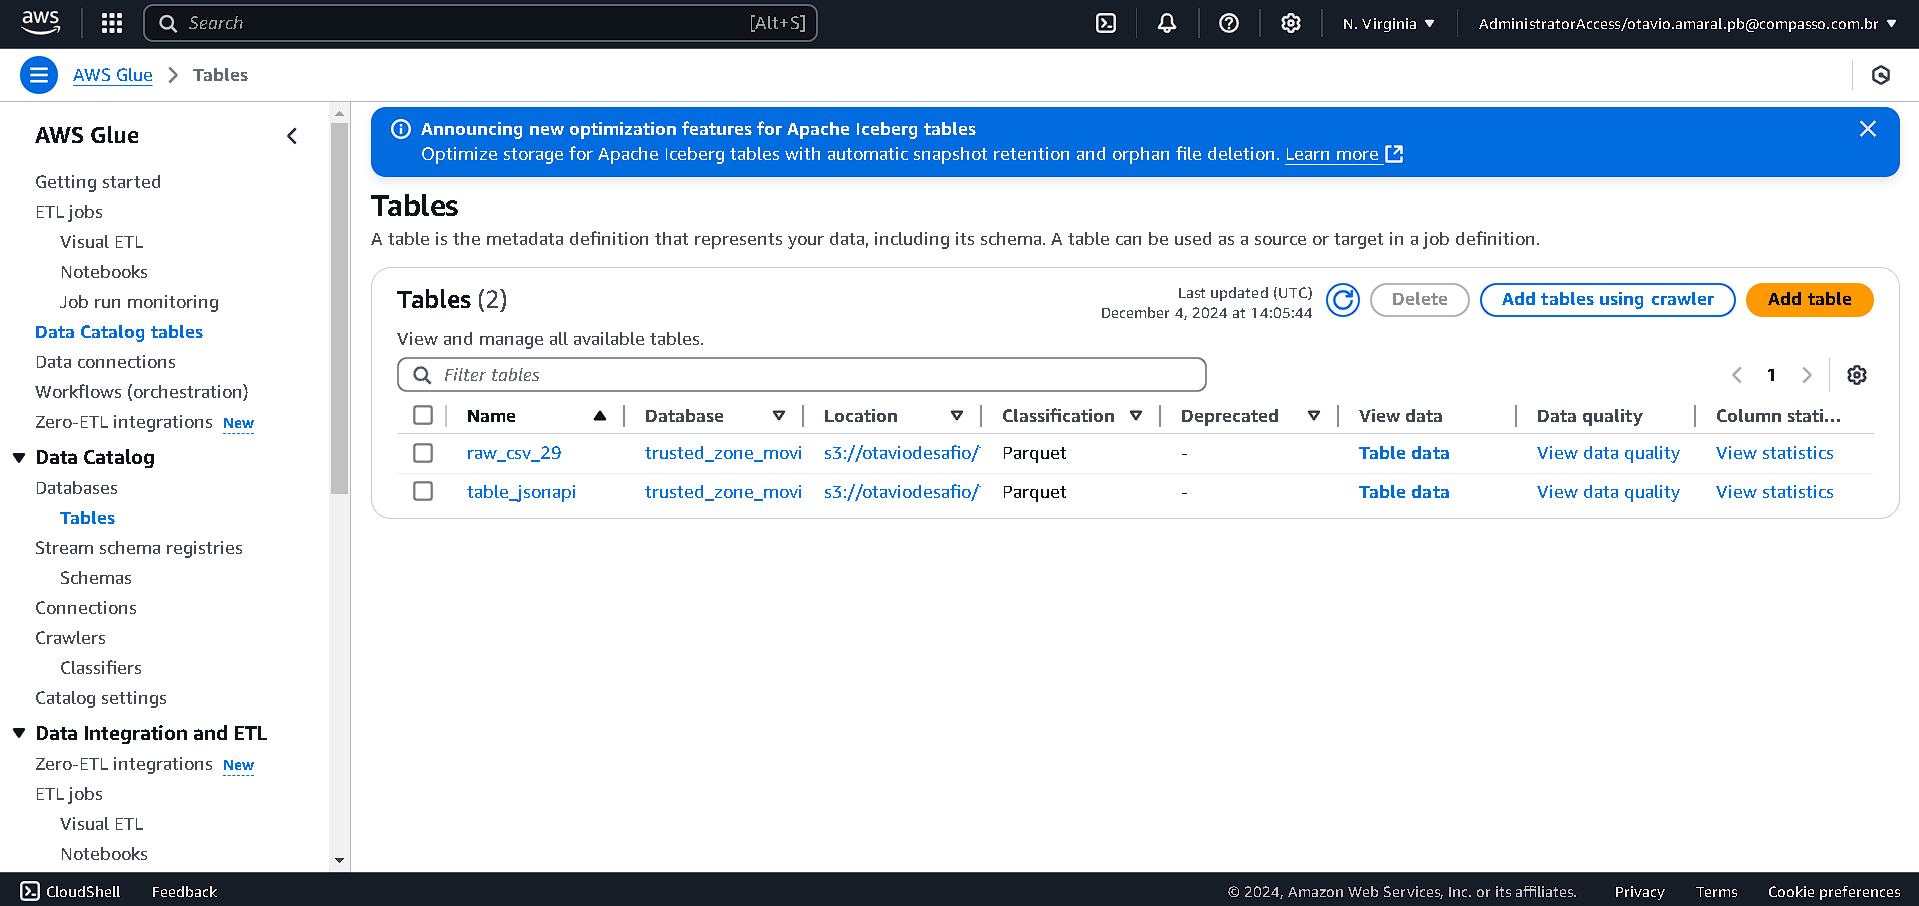
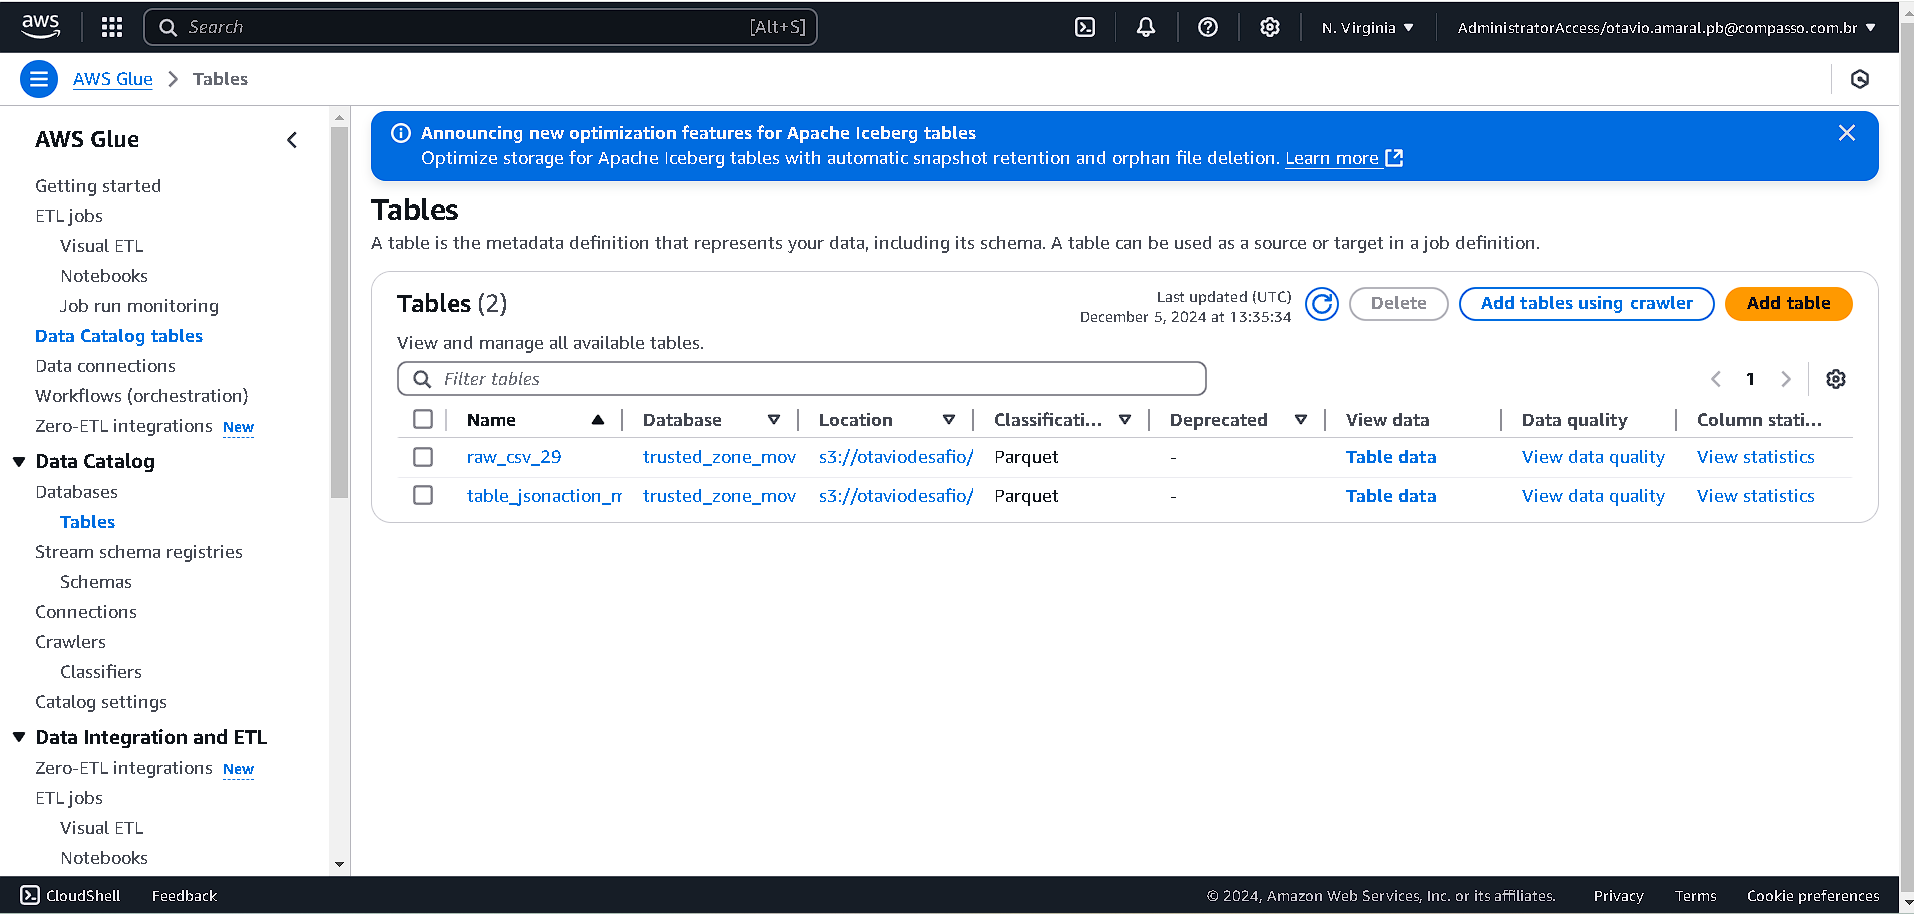
correçao do desafio
correçao do desafio particionamento pro data json, eu estava particionando pelas datas contidas dentro do arquivo, mas corrigi agora para particionar com base na data de execuçao do arquivo

diff --git a/SPRINT8/desafio/glue_json_to_parquet.py b/SPRINT8/desafio/glue_json_to_parquet.py
@@ -1,4 +1,5 @@
 import sys
+from datetime import datetime
 from awsglue.transforms import *
 from awsglue.utils import getResolvedOptions
 from pyspark.context import SparkContext
@@ -12,7 +13,12 @@ glueContext = GlueContext(sc)
 spark = glueContext.spark_session
 
 RAW_JSON_PATH = "s3://otaviodesafio/Raw/TMDB/JSON/action_movies_with_runtime.json"
-TRUSTED_PARQUET_PATH = "s3://otaviodesafio/Trusted/TMDB/API/"
+
+execution_date = datetime.now()
+execution_date_str = execution_date.strftime("%Y-%m-%d")
+execution_path = execution_date.strftime("%Y/%m/%d")
+TRUSTED_PARQUET_PATH = f"s3://otaviodesafio/Trusted/TMDB/API/{execution_path}/"
+output_file_name = f"action_movies_{execution_date_str}.parquet"
 
 datasource = glueContext.create_dynamic_frame.from_options(
     format="json",
@@ -22,7 +28,12 @@ datasource = glueContext.create_dynamic_frame.from_options(
 
 df = datasource.toDF()
 
-df = df.withColumn("release_date", to_date(col("release_date"), "yyyy-MM-dd"))
+df = df.withColumn(
+    "release_date",
+    when(to_date(col("release_date"), "yyyy-MM-dd").isNotNull(), to_date(col("release_date"), "yyyy-MM-dd"))
+    .otherwise(lit(None))
+)
+
 df = df.withColumn("title", when(col("title").isNotNull(), col("title")).otherwise("Unknown"))
 df = df.withColumn("runtime", when(col("runtime").isNotNull(), col("runtime")).otherwise(0))
 df = df.withColumn("vote_count", when(col("vote_count").isNotNull(), col("vote_count")).otherwise(0))
@@ -32,8 +43,8 @@ df = df.withColumn("overview", when(col("overview").isNotNull(), col("overview")
 df = df.withColumn("original_language", when(col("original_language").isNotNull(), col("original_language")).otherwise("Unknown"))
 df = df.withColumn("production_countries", when(col("production_countries").isNotNull() & (col("production_countries") != array()), col("production_countries")).otherwise(array(lit("Unknown"))))
 df = df.withColumn("director", when(col("director").isNotNull(), col("director")).otherwise("Unknown"))
-
 df = df.filter(col("release_date").isNotNull())
+df = df.withColumn("execution_date", lit(execution_date_str))
 
 transformed_dynamic_frame = DynamicFrame.fromDF(df, glueContext, "transformed_dynamic_frame")
 
@@ -42,7 +53,12 @@ glueContext.write_dynamic_frame.from_options(
     connection_type="s3",
     connection_options={
         "path": TRUSTED_PARQUET_PATH,
-        "partitionKeys": ["release_date"],
+        "partitionKeys": ["execution_date"],
     },
     format="parquet"
 )
+
+output_file_path = f"{TRUSTED_PARQUET_PATH}{output_file_name}"
+df.write.mode("overwrite").parquet(output_file_path)
+
+ # foi acrescentada algumas mudanças nesse codigo pois a execuçao do codigo antigo estava particionando o arquivo pelas datas contidas no conteudo dele "realease_date" mas esse ja esta atualizado para data de execuçao

diff --git a/SPRINT8/desafio/README.MD b/SPRINT8/desafio/README.MD
@@ -63,7 +63,7 @@ Importante: Após a execução dos jobs, precisamos interrompê-los para evitar 
 ### Passo 4: Validação e Consultas no AWS Athena
 Após o processamento dos dados, utilize o AWS Athena para realizar algumas consultas SQL e garantir que os dados estejam bem estruturados e prontos para análise: 
 ![Consulta_Athena](athena_select_csv_parquet.png)
-![Consulta_Athena](athena_select_json_parquet.png)
+![Consulta_Athena](./query_athena_json_atualizada.png)
 4. Considerações Finais
 Custo e Desempenho: Sempre monitoro o desempenho dos jobs e o custo de execução no AWS Glue. Para evitar custos extras, eu interrompo os jobs quando não estão em uso.
 
